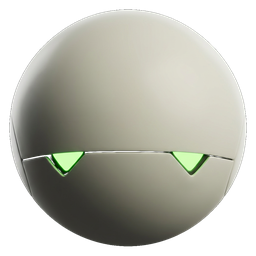
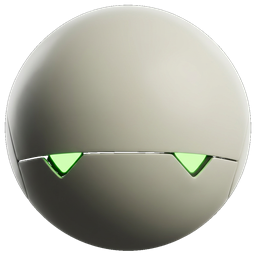
Marvin polish: clean circular cutout, feathered both-eye glow, vertical nod
- head.png re-cut with a feathered circular mask (no more square background);
  window shadow disabled for marvin (was rendering square around the circle)
- eye glow: 3 stacked radial gradients per eye so it fades out softly instead
  of a hard disc; both eyes always glow together
- add a gentle vertical nod (fake pitch) on top of the head roll

Changed region(s): [[0.0, 0.0, 1.0, 1.0], [0.7812, 0.125, 0.875, 0.2188]]

diff --git a/app/pill.py b/app/pill.py
@@ -203,12 +203,12 @@ try:
 
             if c.style == "marvin":
                 NSGraphicsContext.saveGraphicsState()
-                if abs(c.tilt) > 0.05:  # rotate the head around its centre
-                    t = NSAffineTransform.transform()
-                    t.translateXBy_yBy_(w / 2.0, h / 2.0)
-                    t.rotateByDegrees_(c.tilt)
-                    t.translateXBy_yBy_(-w / 2.0, -h / 2.0)
-                    t.concat()
+                t = NSAffineTransform.transform()
+                t.translateXBy_yBy_(0.0, c.nod)          # vertical nod (fake pitch)
+                t.translateXBy_yBy_(w / 2.0, h / 2.0)
+                t.rotateByDegrees_(c.tilt)               # head roll (listening)
+                t.translateXBy_yBy_(-w / 2.0, -h / 2.0)
+                t.concat()
                 self._draw_marvin(c, w, h)
                 NSGraphicsContext.restoreGraphicsState()
                 return
@@ -272,20 +272,27 @@ try:
 
         @objc.python_method
         def _eye_glow(self, w, h, glow):
-            """Additive green bloom over each eye, intensity = loudness."""
+            """Soft, feathered green bloom over BOTH eyes, intensity = loudness.
+
+            Three stacked radial gradients (core -> soft -> wide halo) so it
+            fades out gradually instead of looking like a hard disc.
+            """
+            core = min(0.6, glow * 0.8)
             for nx, ny in self._EYES:
                 gx, gy = nx * w, ny * h
-                rad = w * 0.15 * (1.0 + glow * 0.5)
-                grad = NSGradient.alloc().initWithColors_([
-                    _rgb(0.55, 1.0, 0.40, min(0.75, glow * 0.85)),
-                    _rgb(0.55, 1.0, 0.40, 0.0),
-                ])
-                path = NSBezierPath.bezierPathWithOvalInRect_(
-                    NSMakeRect(gx - rad, gy - rad, 2 * rad, 2 * rad)
-                )
-                grad.drawInBezierPath_relativeCenterPosition_(
-                    path, NSMakePoint(0.0, 0.0)
-                )
+                for scale, alpha in ((0.11, core), (0.20, core * 0.55),
+                                     (0.34, core * 0.28)):
+                    rad = w * scale * (1.0 + glow * 0.4)
+                    grad = NSGradient.alloc().initWithColors_([
+                        _rgb(0.55, 1.0, 0.42, alpha),
+                        _rgb(0.55, 1.0, 0.42, 0.0),
+                    ])
+                    path = NSBezierPath.bezierPathWithOvalInRect_(
+                        NSMakeRect(gx - rad, gy - rad, 2 * rad, 2 * rad)
+                    )
+                    grad.drawInBezierPath_relativeCenterPosition_(
+                        path, NSMakePoint(0.0, 0.0)
+                    )
 
         @objc.python_method
         def _draw_marvin_vector(self, c, w, h):
@@ -399,7 +406,8 @@ try:
             self.levels = [0.0] * _BARS
             self._phase = 0.0
             self._anim = 0.0
-            self.tilt = 0.0  # head-tilt degrees (marvin style)
+            self.tilt = 0.0  # head-roll degrees (marvin style)
+            self.nod = 0.0   # vertical nod offset in px (fake pitch)
             self._h = _MARVIN_SIZE if style == "marvin" else _HEIGHT
             self._w = _MARVIN_SIZE if style == "marvin" else _WIDTH_IDLE
 
@@ -419,7 +427,9 @@ try:
             self.window.setOpaque_(False)
             self.window.setBackgroundColor_(NSColor.clearColor())
             self.window.setLevel_(NSStatusWindowLevel)
-            self.window.setHasShadow_(True)
+            # No window shadow for Marvin — it would render as a square around
+            # the circular head. The waveform pill keeps its shadow.
+            self.window.setHasShadow_(style != "marvin")
             self.window.setCollectionBehavior_(
                 NSWindowCollectionBehaviorCanJoinAllSpaces
                 | NSWindowCollectionBehaviorStationary
@@ -503,10 +513,13 @@ try:
             # dictating, a barely-there bob when idle. Eased for smoothness.
             self._anim += 0.05
             if mode in ("recording", "transcribing"):
-                target = 9.0 * math.sin(self._anim * 2.2)  # attentive sway
+                target = 9.0 * math.sin(self._anim * 2.2)          # attentive roll
+                nod_target = 2.6 * math.sin(self._anim * 3.1 + 1)  # gentle nod
             else:
-                target = 2.0 * math.sin(self._anim * 0.9)  # subtle idle life
+                target = 2.0 * math.sin(self._anim * 0.9)          # subtle idle
+                nod_target = 1.0 * math.sin(self._anim * 1.1)
             self.tilt += (target - self.tilt) * 0.25
+            self.nod += (nod_target - self.nod) * 0.25
             self._render()
 
     def create_pill(on_click=None, on_move=None, on_menu=None, pos=None,
